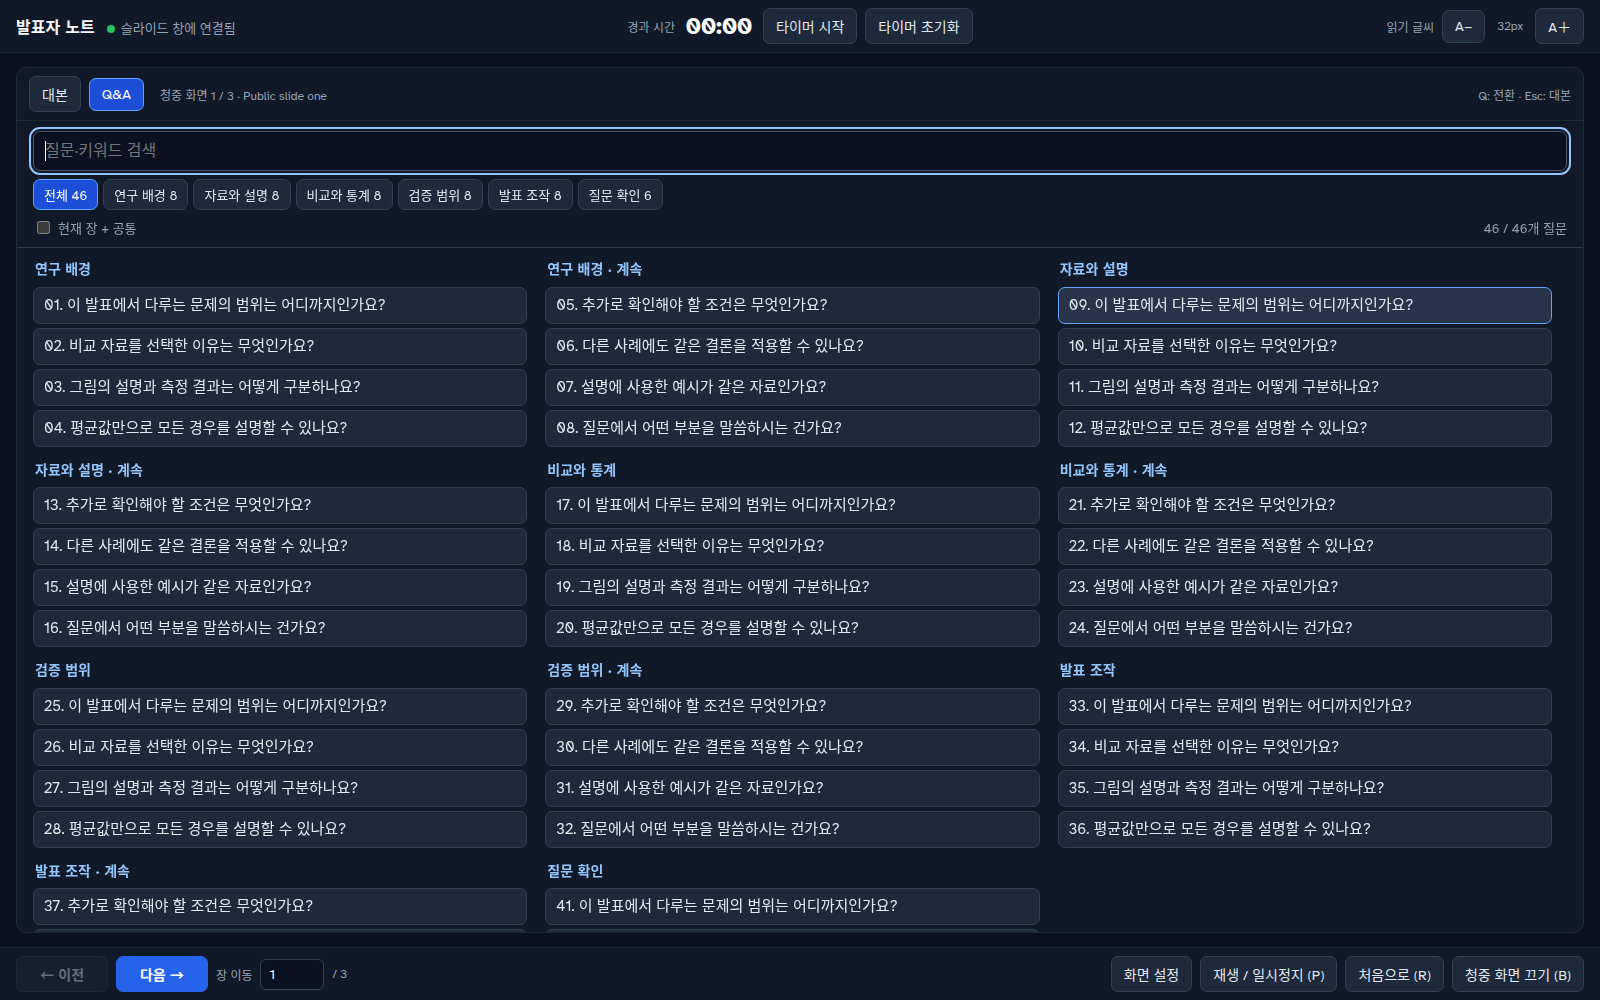
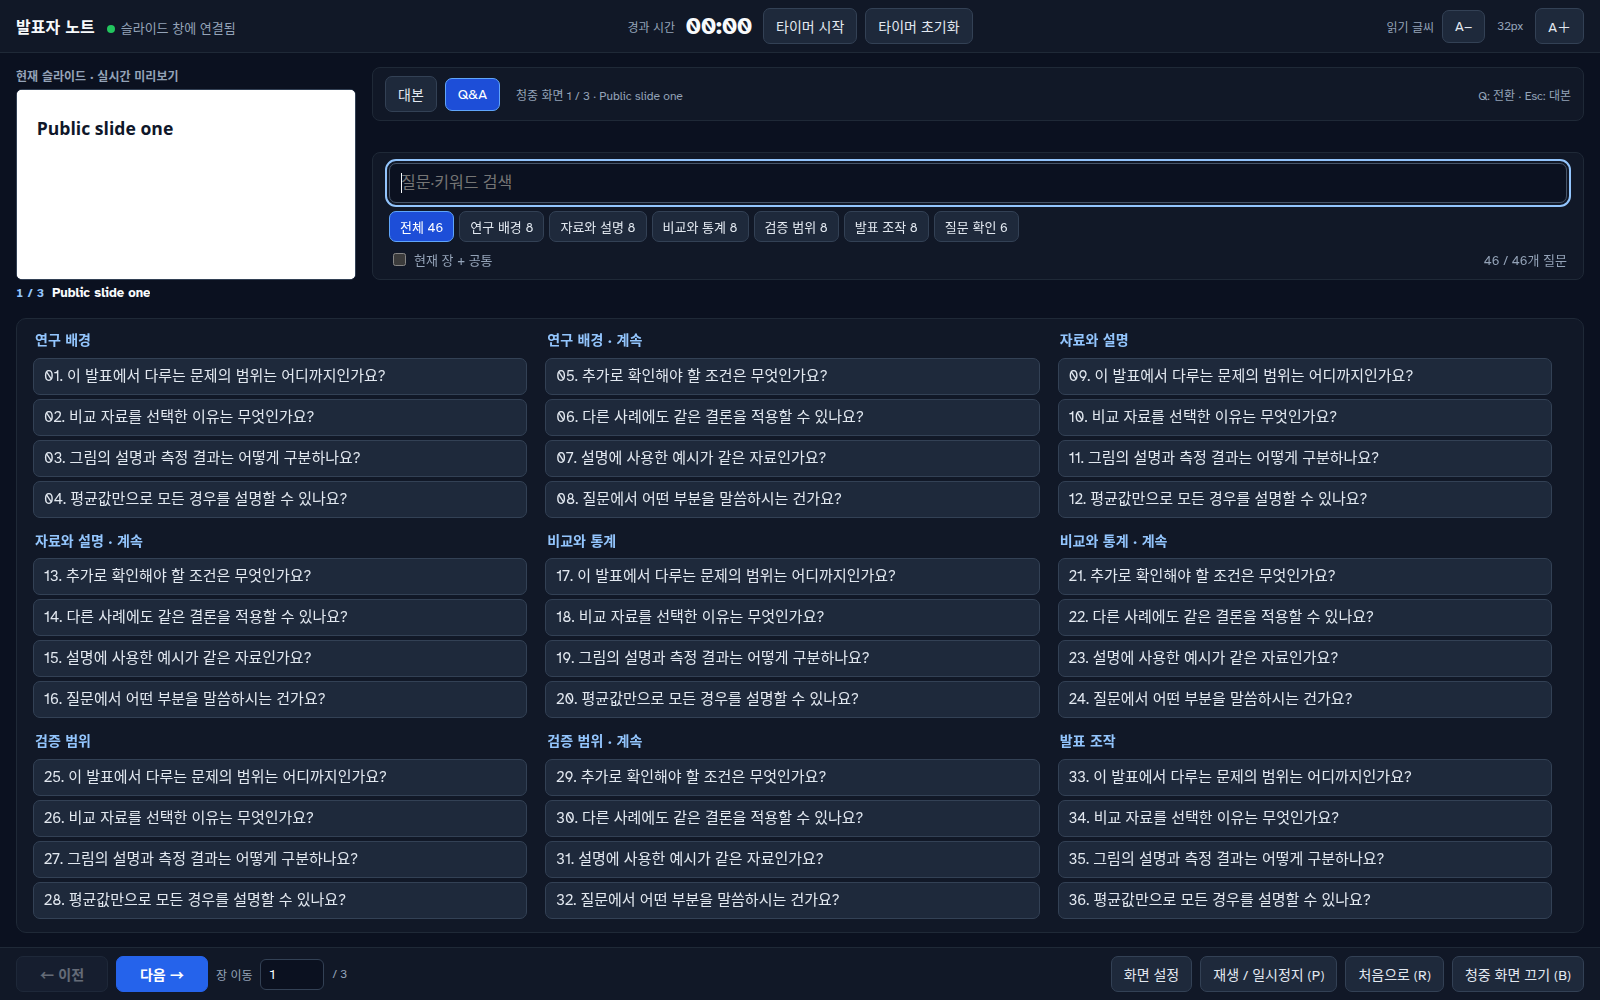
fix: keep the live audience preview visible during Q&A

Changed region(s): [[0.0, 0.062, 1.0, 0.93], [0.375, 0.093, 0.4062, 0.124]]

diff --git a/design/presenter.js b/design/presenter.js
@@ -105,14 +105,25 @@
     '@media (max-width: 900px) { header { display: flex; flex-wrap: wrap; } .script-tools { margin-left: auto; } #reading-toggle, .help { display: none; } main, main.reading { grid-template-columns: minmax(0, 9fr) minmax(0, 16fr); grid-template-rows: auto auto minmax(0, 1fr); grid-template-areas: "current notes" "next notes" ". notes"; gap: 10px 12px; padding: 10px 12px; } .next-pane { grid-template-columns: minmax(0, 1fr); gap: 6px; } #notes { padding: 16px 18px 24px; } }',
     '@media (max-width: 620px) { main, main.reading { grid-template-columns: minmax(0, 1fr); grid-template-rows: minmax(0, 1fr); grid-template-areas: "notes"; } .current-pane, .next-pane { display: none; } #notes { padding: 14px; } }',
     '@media (max-height: 760px) { .qa-tools { padding-top: 8px; } #qa-answer-panel { padding: 12px 16px 20px; } }',
-    // Q&A owns the available space; the audience and source playback are unchanged.
-    'main.qa-mode, main.qa-mode.reading { grid-template-columns: minmax(0, 1fr); grid-template-rows: minmax(0, 1fr); grid-template-areas: "notes"; }',
-    'main.qa-mode .current-pane, main.qa-mode .next-pane, main.qa-mode .help { display: none; }',
+    // Keep the existing live iframe beside the Q&A tools, with the question grid
+    // across the full width below. display:contents changes layout, not iframe ownership.
+    'main.qa-mode, main.qa-mode.reading { grid-template-columns: clamp(220px, 25vw, 340px) minmax(0, 1fr); grid-template-rows: auto auto auto minmax(0, 1fr); grid-template-areas: "current qa-tabs" "current qa-tools" "qa-empty qa-empty" "qa-body qa-body"; gap: 8px 16px; }',
+    'main.qa-mode .current-pane { display: block; align-self: start; }',
+    'main.qa-mode .current-pane .preview-heading { margin-bottom: 5px; }',
+    'main.qa-mode .slide-caption { margin-top: 5px; gap: 8px; }',
+    'main.qa-mode #slide-count { font-size: 12px; }',
+    'main.qa-mode #note-title { font-size: 13px; white-space: nowrap; overflow: hidden; text-overflow: ellipsis; }',
+    'main.qa-mode .next-pane, main.qa-mode .help { display: none; }',
+    'main.qa-mode .notes-pane, main.qa-mode #qa-panel:not([hidden]) { display: contents; }',
+    'main.qa-mode .notes-tabs { grid-area: qa-tabs; align-self: start; background: #111827; border: 1px solid #1f2937; border-radius: 8px; }',
+    'main.qa-mode .qa-tools { grid-area: qa-tools; align-self: start; min-width: 0; background: #111827; border: 1px solid #1f2937; border-radius: 8px; }',
+    'main.qa-mode #qa-empty { grid-area: qa-empty; }',
+    'main.qa-mode .qa-workspace { grid-area: qa-body; background: #111827; border: 1px solid #1f2937; border-radius: 10px; }',
     '@media (min-width: 1450px) { #qa-panel:not(.qa-detail) #qa-list { grid-template-columns: repeat(3, minmax(0, 1fr)); } }',
-    '@media (max-width: 900px) { body.qa-active header { flex-wrap: nowrap; gap: 10px; } body.qa-active #connection, body.qa-active .clock-label, body.qa-active .tool-label, body.qa-active #font-size { display: none; } body.qa-active .clock { margin-left: auto; flex-wrap: nowrap; } body.qa-active .script-tools { flex-wrap: nowrap; margin-left: 0; } body.qa-active footer #display-setup, body.qa-active footer #media-toggle, body.qa-active footer #media-reset { display: none; } }',
+    '@media (max-width: 900px) { main.qa-mode, main.qa-mode.reading { grid-template-columns: clamp(160px, 28vw, 240px) minmax(0, 1fr); gap: 6px 12px; } body.qa-active header { flex-wrap: nowrap; gap: 10px; } body.qa-active #connection, body.qa-active .clock-label, body.qa-active .tool-label, body.qa-active #font-size { display: none; } body.qa-active .clock { margin-left: auto; flex-wrap: nowrap; } body.qa-active .script-tools { flex-wrap: nowrap; margin-left: 0; } body.qa-active footer #display-setup, body.qa-active footer #media-toggle, body.qa-active footer #media-reset { display: none; } }',
     '@media (max-width: 800px) { .qa-detail .qa-workspace { grid-template-columns: minmax(0, 1fr); } .qa-detail #qa-list { display: none; } #qa-answer-panel { border-left: 0; } .qa-tools { padding: 8px 12px; } #qa-list { padding: 10px 12px 14px; gap: 12px; } #qa-list button { font-size: 14px; line-height: 1.35; padding: 5px 9px; } #qa-slide-context { display: none; } }',
     '@media (max-width: 620px) { body.qa-active #timer-toggle, body.qa-active #timer-reset { display: none; } body.qa-active .script-tools { margin-left: auto; } }',
-    '@media (max-width: 620px) { #qa-list { grid-template-columns: minmax(0, 1fr); } .notes-tabs .tab-hint { font-size: 11px; } #qa-categories { max-height: 74px; overflow-y: auto; } #qa-back { padding: 7px 8px; } }'
+    '@media (max-width: 620px) { #qa-list { grid-template-columns: minmax(0, 1fr); } .notes-tabs .tab-hint { font-size: 11px; } main.qa-mode .notes-tabs .tab-hint { display: none; } #qa-categories { max-height: 74px; overflow-y: auto; } #qa-back { padding: 7px 8px; } }'
   ].join('\n');
 
   function mount(win, api) {
@@ -408,6 +419,7 @@
         el('notes-tab').tabIndex = qaMode ? -1 : 0;
         el('qa-tab').tabIndex = qaMode ? 0 : -1;
         if (qaMode) {
+          resize();
           renderQAList(); el('qa-answer-panel').scrollTop = qaScroll;
           el('qa-list').scrollTop = qaDetail ? qaDetailListScroll : qaBrowseScroll;
         } else if (current) {

diff --git a/tests/test_presenter_qa_preview.py b/tests/test_presenter_qa_preview.py
@@ -1,0 +1,153 @@
+#!/usr/bin/env python3
+"""Keep the live audience preview visible while browsing or reading private Q&A."""
+import argparse
+import json
+import tempfile
+from pathlib import Path
+
+from test_presenter import current_preview, screenshot_color_count
+from test_presenter_displays import click, evaluate, wait_for
+from test_presenter_qa import load, open_notes, search
+from test_presenter_qa_browse import category, make_browse_fixture, overview, resize, visible_questions
+
+
+def fixture(folder):
+    path, _ = make_browse_fixture(folder)
+    document = path.read_text()
+    document = document.replace('<h1>Public slide one</h1>', '''<h1>Public slide one</h1>
+      <canvas id="qa-live" width="1200" height="300"
+        style="position:absolute;left:80px;top:330px;width:1200px;height:300px"></canvas>''', 1)
+    script = '''<script>(function(){
+      const canvas=document.querySelector('#qa-live'),ctx=canvas.getContext('2d');
+      const state=window.qaLive={frames:0,playing:false};let pending=0;
+      function draw(){ctx.fillStyle='white';ctx.fillRect(0,0,1200,300);
+        ctx.fillStyle='#1d4ed8';ctx.fillRect(20+(state.frames*9)%900,50,200,200)}
+      function pause(){state.playing=false;if(pending)SUVPresent.cancelAnimationFrame(pending);pending=0}
+      function tick(){pending=0;if(!state.playing)return;state.frames++;draw();pending=SUVPresent.requestAnimationFrame(tick)}
+      document.addEventListener('suv:media',e=>{if(e.detail.slide!==canvas.closest('.slide'))return;
+        e.preventDefault();if(e.detail.action==='reset'){pause();state.frames=0;draw()}
+        else if(state.playing)pause();else{state.playing=true;pending=SUVPresent.requestAnimationFrame(tick)}});
+      document.addEventListener('suv:slidechange',e=>{if(e.detail.index!==0)pause()});
+      document.addEventListener('suv:playbackvisibility',e=>{if(!e.detail.visible)pause()});draw();
+    })();</script>'''
+    path.write_text(document.replace('</body>', script + '</body>'))
+    return path
+
+
+def preview_geometry(p):
+    return evaluate(p, '''(()=>{
+      const pane=document.querySelector('.current-pane'),box=pane.querySelector('.preview-box');
+      const frame=document.querySelector('#current-preview'),r=box.getBoundingClientRect(),f=frame.getBoundingClientRect();
+      const top=document.elementFromPoint(r.left+r.width/2,r.top+r.height/2);
+      return {width:r.width,height:r.height,left:r.left,top:r.top,right:r.right,bottom:r.bottom,
+        frameWidth:f.width,frameHeight:f.height,scale:new DOMMatrixReadOnly(getComputedStyle(frame).transform).a,
+        visible:getComputedStyle(pane).display!=='none'&&pane.contains(top),
+        inViewport:r.left>=0&&r.top>=0&&r.right<=innerWidth+1&&r.bottom<=innerHeight+1,
+        horizontalOverflow:document.documentElement.scrollWidth>innerWidth};
+    })()''')
+
+
+def assert_preview(p):
+    geometry = preview_geometry(p)
+    assert geometry['visible'] and geometry['inViewport'], geometry
+    assert geometry['width'] >= 150 and geometry['height'] >= 80, geometry
+    assert geometry['scale'] > 0, geometry
+    assert abs(geometry['frameWidth'] - geometry['width']) < 4, geometry
+    assert abs(geometry['frameHeight'] - geometry['height']) < 4, geometry
+    assert not geometry['horizontalOverflow'], geometry
+    return geometry
+
+
+def run(out):
+    out.mkdir(parents=True, exist_ok=True)
+    (out / 'report.json').unlink(missing_ok=True)
+    checks, geometry, pixels = [], {}, {}
+
+    def passed(message):
+        checks.append(message)
+        print('PASS ' + message, flush=True)
+
+    with tempfile.TemporaryDirectory(prefix='qa-preview-fixture-') as tmp:
+        path = fixture(Path(tmp))
+        with load(path) as c:
+            p = open_notes(c, path.as_uri())
+            wait_for(p, current_preview('!!d?.querySelector("#qa-live")'))
+            evaluate(p, 'window.qaPreviewDocument=document.querySelector("#current-preview").contentDocument')
+            initial_geometry = assert_preview(p)
+            click(p, '#qa-tab')
+            for width, height in [(1280, 850), (800, 700), (781, 963), (560, 700)]:
+                resize(p, width, height)
+                overview(p)
+                evaluate(p, 'document.querySelector("#qa-list").scrollTop=0')
+                browse = assert_preview(p)
+                browse['visibleQuestions'] = len(visible_questions(p))
+                p.screenshot(out / f'browse_{width}x{height}.png')
+                click(p, '#qa-list button')
+                detail = assert_preview(p)
+                assert not evaluate(p, 'document.querySelector("#qa-answer-panel").hidden')
+                assert evaluate(c, 'SUVPresent.currentIndex()') == 0
+                p.screenshot(out / f'detail_{width}x{height}.png')
+                assert evaluate(p, 'qaPreviewDocument===document.querySelector("#current-preview").contentDocument')
+                geometry[f'{width}x{height}'] = dict(browse=browse, detail=detail)
+            passed('Current audience preview stays visible, correctly scaled and unobscured during browse/detail at four window sizes')
+
+            resize(p, 1280, 850)
+            overview(p)
+            category(p, '연구 배경')
+            search(p, 'topic-1')
+            assert_preview(p)
+            assert evaluate(c, 'SUVPresent.currentIndex()') == 0
+            search(p, '')
+            category(p, '')
+            assert_preview(p)
+            passed('Search and category filters retain the live preview without changing the audience slide')
+
+            source = 'document.querySelector("#qa-live").toDataURL()'
+            mirrored = current_preview('d.querySelector("#qa-live").toDataURL()')
+            for mode in ('browse', 'detail'):
+                if mode == 'detail':
+                    click(p, '#qa-list button')
+                before = evaluate(c, source)
+                evaluate(p, 'document.querySelector("#qa-tab").focus()')
+                p.key('p')
+                wait_for(c, 'qaLive.playing')
+                wait_for(c, source + '!==' + json.dumps(before))
+                wait_for(p, mirrored + '!==' + json.dumps(before))
+                p.key('p')
+                wait_for(c, '!qaLive.playing')
+                paused = evaluate(c, source)
+                wait_for(p, mirrored + '===' + json.dumps(paused))
+                assert_preview(p)
+                pixels[mode] = screenshot_color_count(p, '#qa-live', out / f'live_{mode}.png', 2)
+                assert pixels[mode] > 20, pixels
+                assert evaluate(p, 'qaPreviewDocument===document.querySelector("#current-preview").contentDocument')
+                assert evaluate(c, 'SUVPresent.currentIndex()') == 0
+            passed('Animated canvas frames reach the visible preview in Q&A overview and answer modes without recreating the iframe')
+
+            click(p, '#notes-tab')
+            restored = assert_preview(p)
+            assert abs(initial_geometry['width'] - restored['width']) < 2
+            assert abs(initial_geometry['height'] - restored['height']) < 2
+            assert evaluate(p, 'qaPreviewDocument===document.querySelector("#current-preview").contentDocument')
+            assert not [e for e in c.events+p.events if e.get('method') == 'Runtime.exceptionThrown']
+            p.screenshot(out / 'restored_notes.png')
+            p.ws.close()
+            passed('Returning to the script restores the original preview dimensions and retains the same live document')
+
+    report = dict(result='PASS', passed=len(checks), checks=checks, geometry=geometry,
+        visibleBluePixels=pixels, transport='offline file://', browser='Headless Chrome',
+        fixture='Generic46-card Q&A with a blue canvas animation',
+        browserSecurity='Default local-file security; no relaxed origin or file-access flags')
+    (out / 'report.json').write_text(json.dumps(report, ensure_ascii=False, indent=2) + '\n')
+    return report
+
+
+if __name__ == '__main__':
+    parser = argparse.ArgumentParser(description=__doc__)
+    parser.add_argument('--output', type=Path)
+    args = parser.parse_args()
+    if args.output:
+        run(args.output.resolve())
+    else:
+        with tempfile.TemporaryDirectory(prefix='qa-preview-result-') as tmp:
+            run(Path(tmp))

diff --git a/design/README.md b/design/README.md
@@ -156,7 +156,9 @@ google-chrome --headless=new --disable-gpu --no-pdf-header-footer \
 
 ### 발표자 Q&A
 
-발표자 창의 **Q&A** 탭 또는 `Q` 키를 누르면 질문 목록이 창 전체에 분류별로 펼쳐진다.
+발표자 창의 **Q&A** 탭 또는 `Q` 키를 누르면 상단에 현재 슬라이드와 검색·분류 도구,
+하단에 넓은 질문 목록이 표시된다. 현재 슬라이드는 질문을 찾거나 답변을 읽는 동안에도
+계속 보이며 캔버스와 영상의 재생 상태가 함께 반영된다.
 질문을 선택하면 큰 글씨로 답변을 읽는다. 넓은 창에서는 목록과 답변을 나란히 표시하며,
 작은 창에서는 답변을 따로 표시한다. **질문 목록**으로 돌아오면 훑던 위치가 복구된다.
 한글·영어 질문, 답변, 키워드로 검색할 수 있고, 분류 버튼으로 범위를 좁힐 수 있다.

diff --git a/README.md b/README.md
@@ -36,7 +36,8 @@
 공유 프레임 API에 연결한 스크립트 애니메이션은 발표자 창에 포커스를 둔 채 재생·제어할 수 있다.
 노트는 청중 화면과 PDF에 표시되지 않는다.
 
-발표자 창의 **Q&A** 탭을 열면 창 전체에서 질문을 분류별로 훑어볼 수 있다. 질문을 고르면
+발표자 창의 **Q&A** 탭에서는 현재 슬라이드를 위에 계속 보면서, 아래의 넓은 목록에서
+질문을 분류별로 훑어볼 수 있다. 질문을 고르면
 답변을 읽고, **질문 목록**으로 돌아와 다른 질문을 찾는다. 검색·분류·현재 장 필터를 함께
 사용할 수 있으며, 질문 선택은 청중 슬라이드를 바꾸지 않는다. `Q`로 대본과 Q&A를 전환한다.
 질문·답변은 HTML의 숨겨진 템플릿에 넣어 오프라인으로 사용한다.

diff --git a/tests/README.md b/tests/README.md
@@ -19,6 +19,8 @@ python3 tests/test_video_poster.py --output /tmp/suvlab-video-poster
 python3 tests/test_presenter_displays.py --output /tmp/suvlab-presenter-displays
 # 발표자 전용 Q&A 검색·선택·비공개 표시 검사
 python3 tests/test_presenter_qa.py --output /tmp/suvlab-presenter-qa
+# Q&A 목록·답변에서도 현재 슬라이드와 움직이는 캔버스가 보이는지 확인
+python3 tests/test_presenter_qa_preview.py --output /tmp/suvlab-presenter-qa-preview
 # 많은 질문을 훑는 전체 목록·분류·답변 전환 검사
 python3 tests/test_presenter_qa_browse.py --output /tmp/suvlab-presenter-qa-browse
 ```
